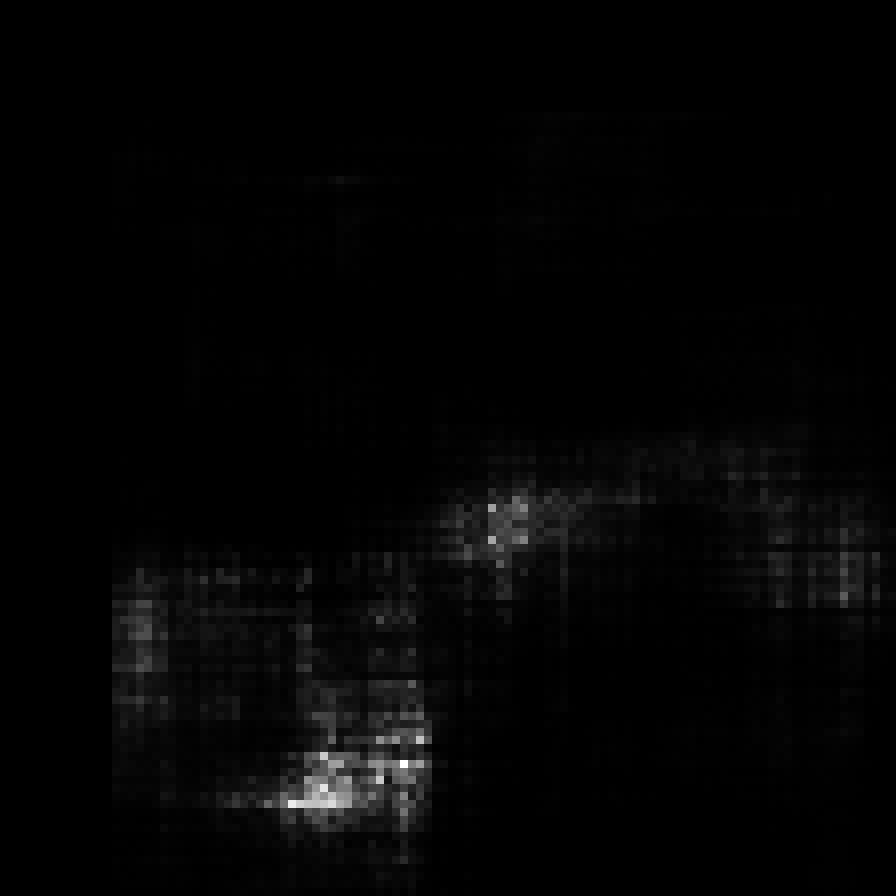
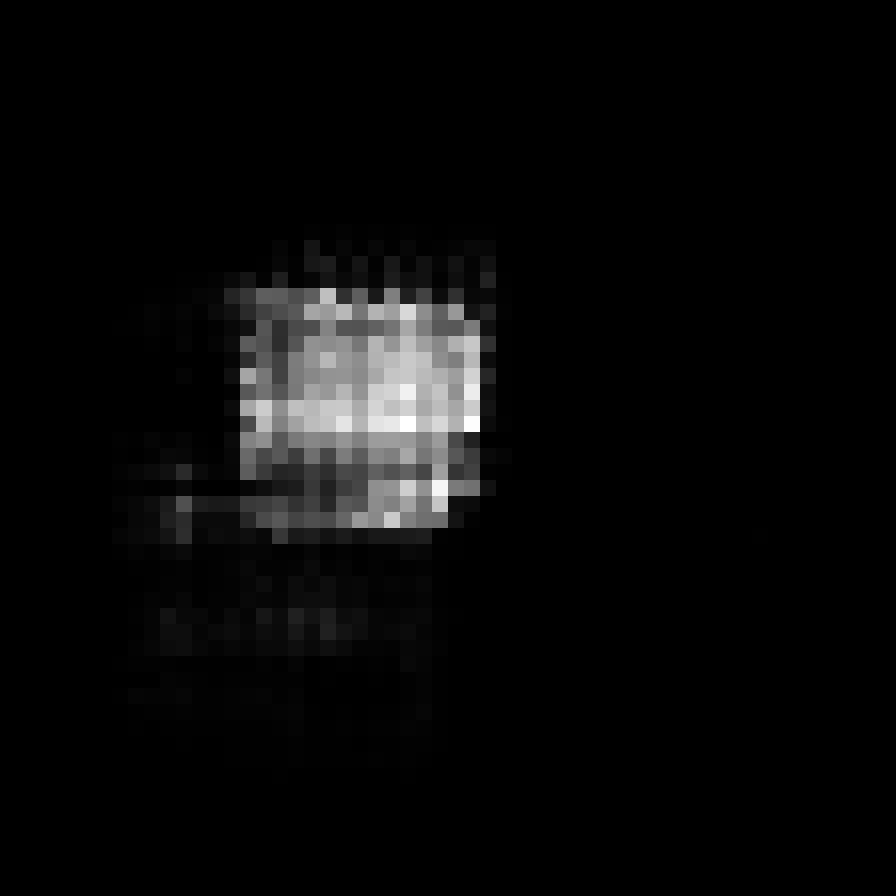
Resnet updates

diff --git a/resnet/resnet.py b/resnet/resnet.py
@@ -25,14 +25,15 @@ WIDTH=224
 # 559 folding_chair
 # 624 library
 # 765 rocking_chair
-CLASS = 423
+# 285 Egyptian cat
+CLASS = 285
 
 full_image = image.load_img(img_path, target_size=(WIDTH*4, WIDTH*4))
 
 resnet_output = np.zeros((WIDTH*4, WIDTH*4), dtype=float)
 
 start_time = time.time()
-STEP = 8
+STEP = 16
 for dx in range(0, WIDTH*4 - WIDTH/2, STEP):
     for dy in range(0, WIDTH*4 - WIDTH/2, STEP):
         # View 25% of the image at a time

diff --git a/resnet/resnet50.py b/resnet/resnet50.py
@@ -187,7 +187,7 @@ def ResNet50(include_top=True, weights='imagenet',
     x = identity_block(x, 3, [512, 512, 2048], stage=5, block='b')
     x = identity_block(x, 3, [512, 512, 2048], stage=5, block='c')
 
-    x = AveragePooling2D((7, 7), name='avg_pool')(x)
+    #x = AveragePooling2D((7, 7), name='avg_pool')(x)
 
     if include_top:
         x = Flatten()(x)
